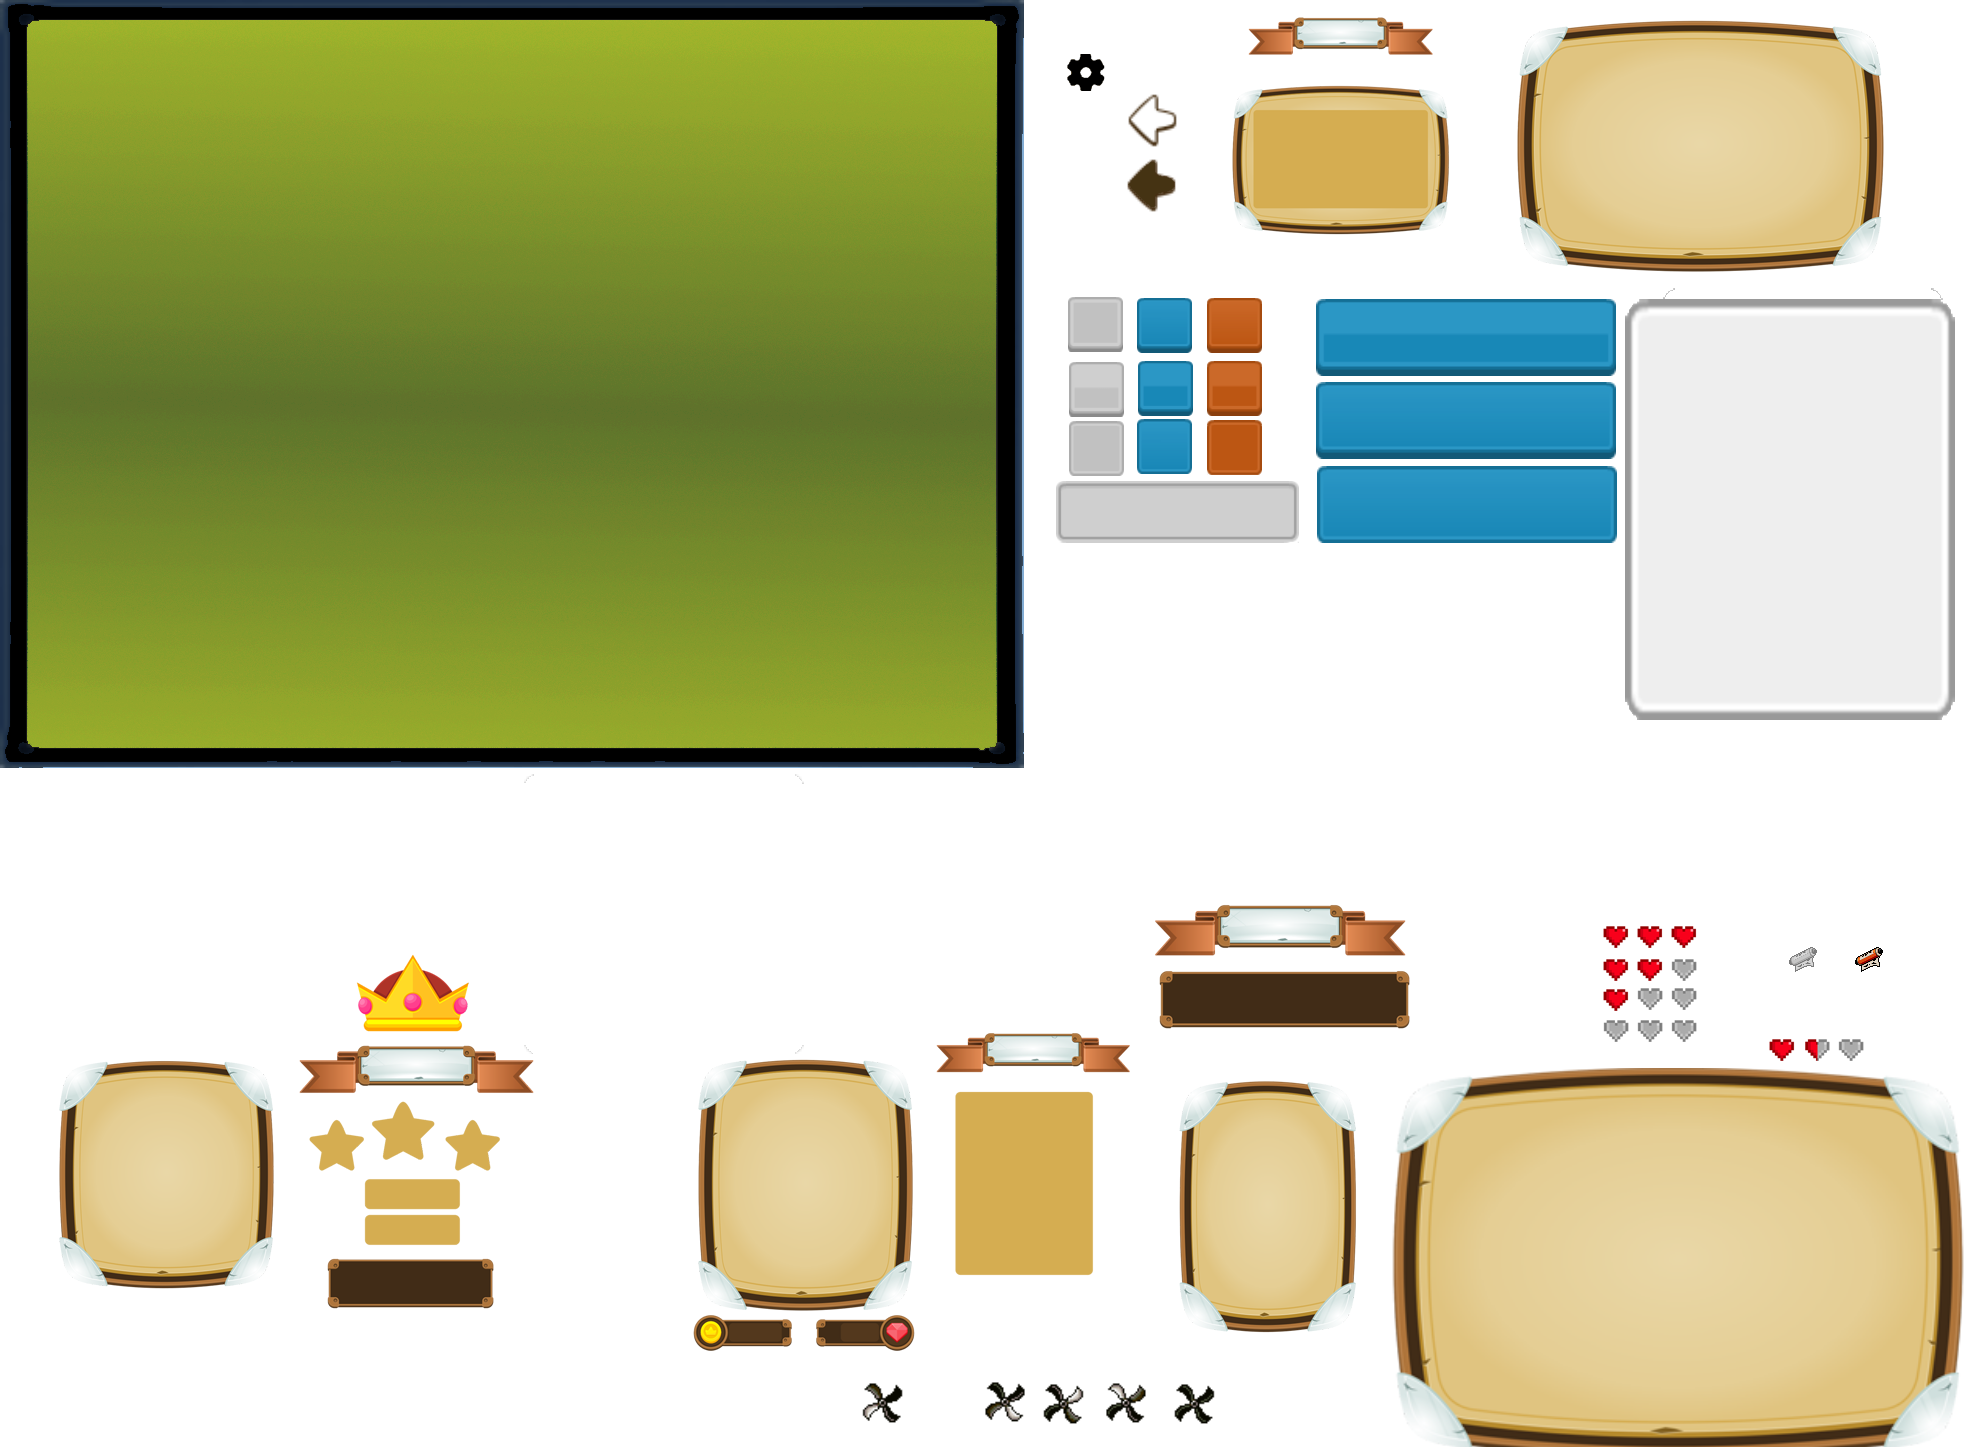
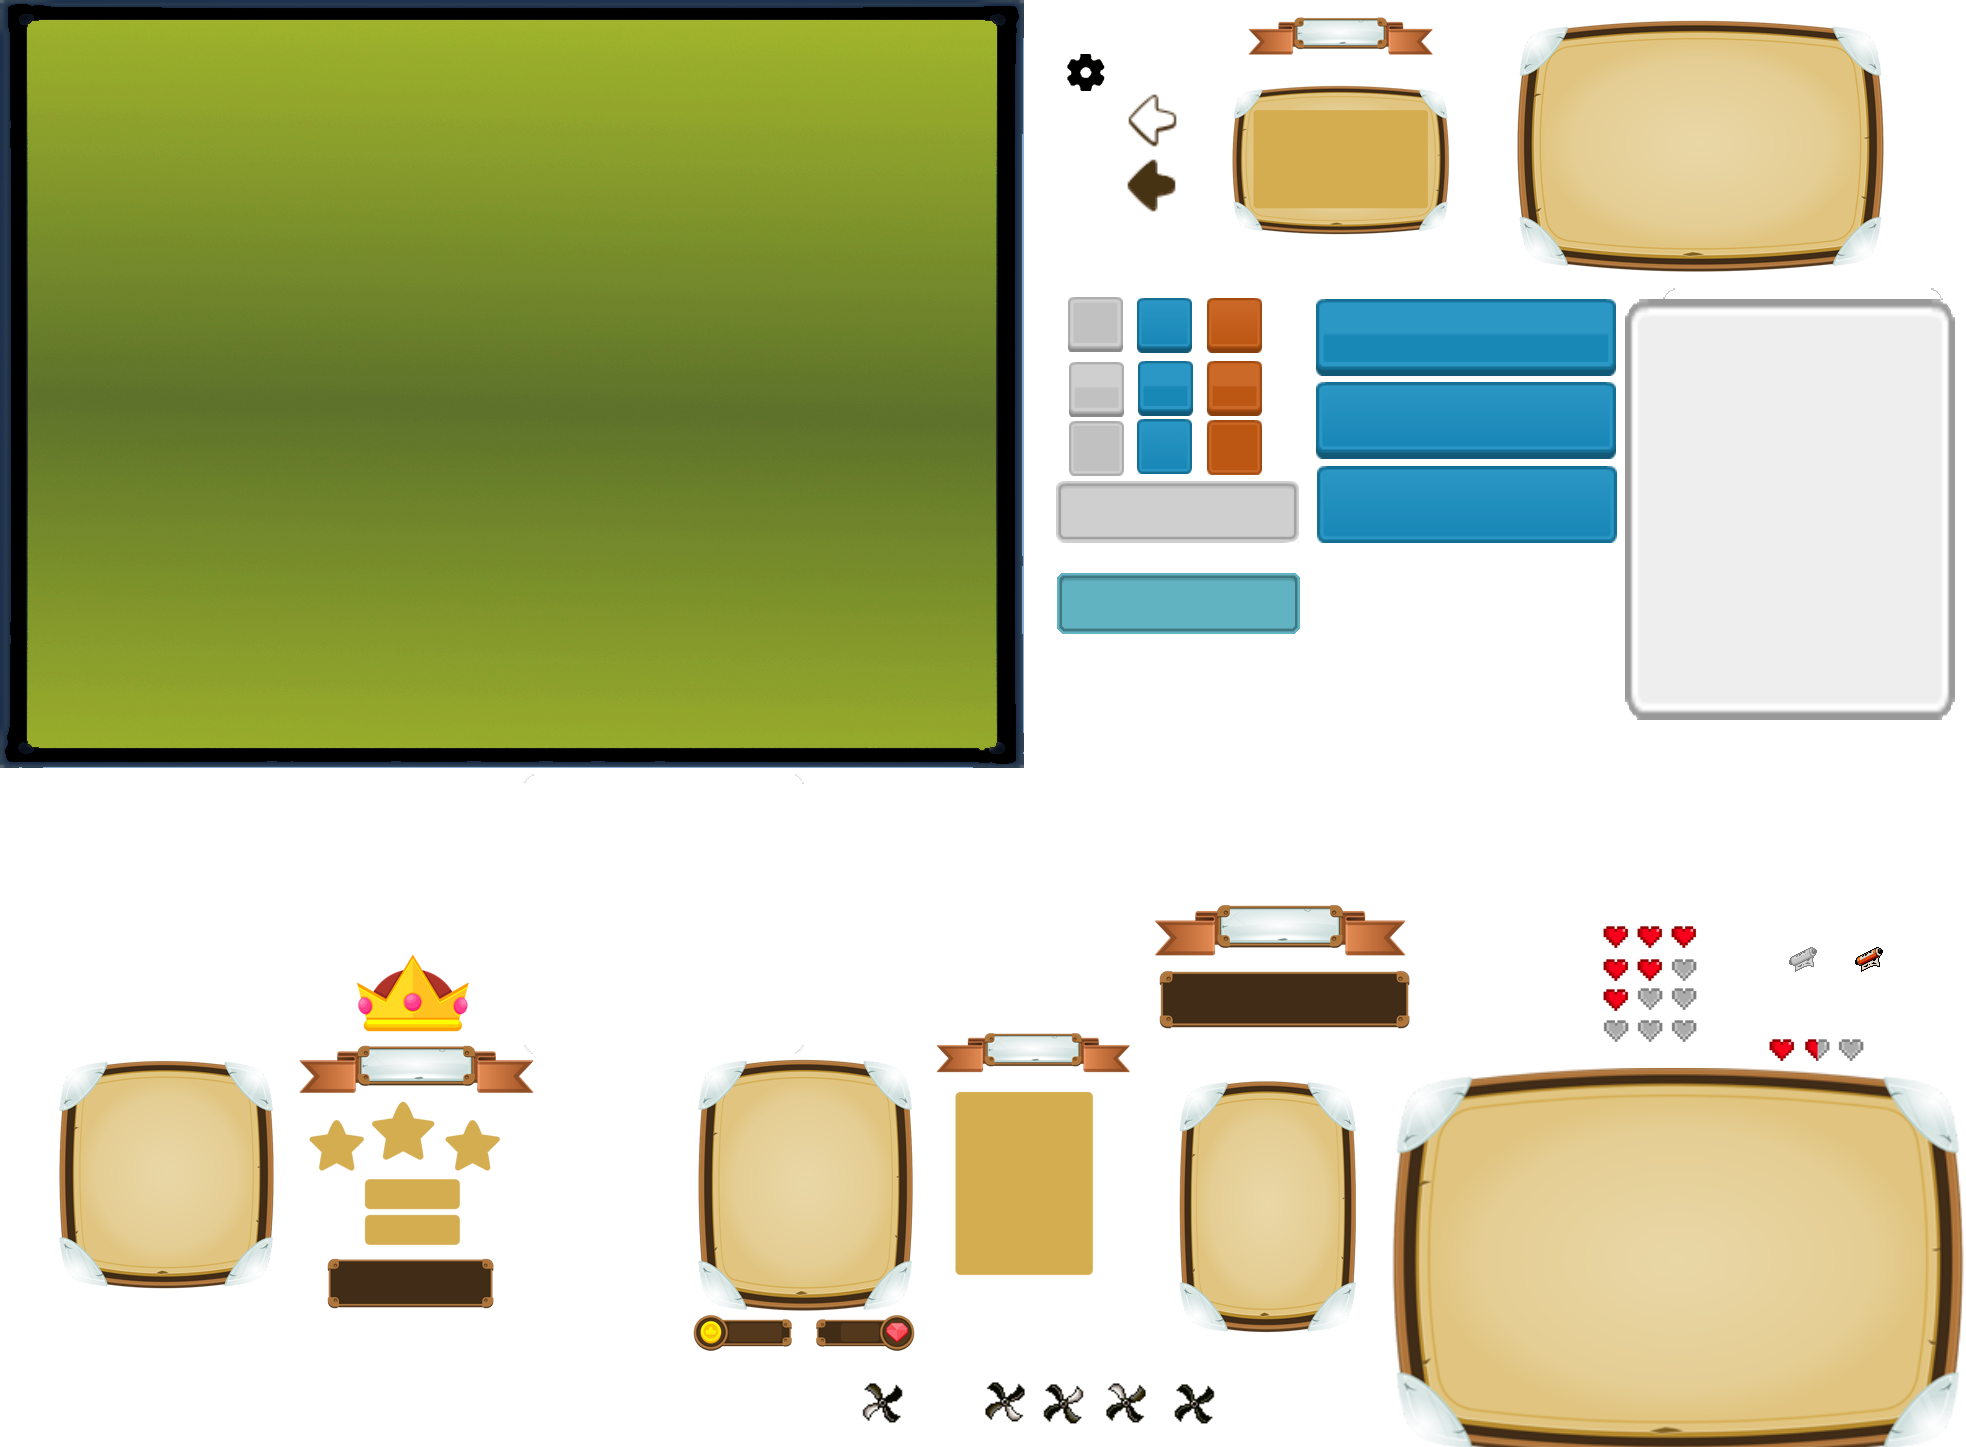
Background for UI scene added

Changed region(s): [[0.5275, 0.3732, 0.6826, 0.4354]]

diff --git a/Game-Exercise/Motor2D/j1Scene.h b/Game-Exercise/Motor2D/j1Scene.h
@@ -57,6 +57,9 @@ public:
 	GUI* book_caught_ui = nullptr;
 	SDL_Rect book_caught_rect = { 1855, 947, 28, 25 };
 	SDL_Rect book_not_caught_rect = { 1789, 947, 28, 25 };
+
+	GUI* ui_background = nullptr;
+	SDL_Rect ui_backround_rect = {1057, 573, 243, 61};
 };
 
 #endif // __j1SCENE_H__

diff --git a/Game-Exercise/Motor2D/j1Scene.cpp b/Game-Exercise/Motor2D/j1Scene.cpp
@@ -39,7 +39,7 @@ bool j1Scene::Awake()
 bool j1Scene::Start()
 {
 
-	
+	ui_background = App->gui->AddImage(0, 0, &ui_backround_rect, nullptr, nullptr);
 
 	if (!is_faded && map_number == 1)
 	{
